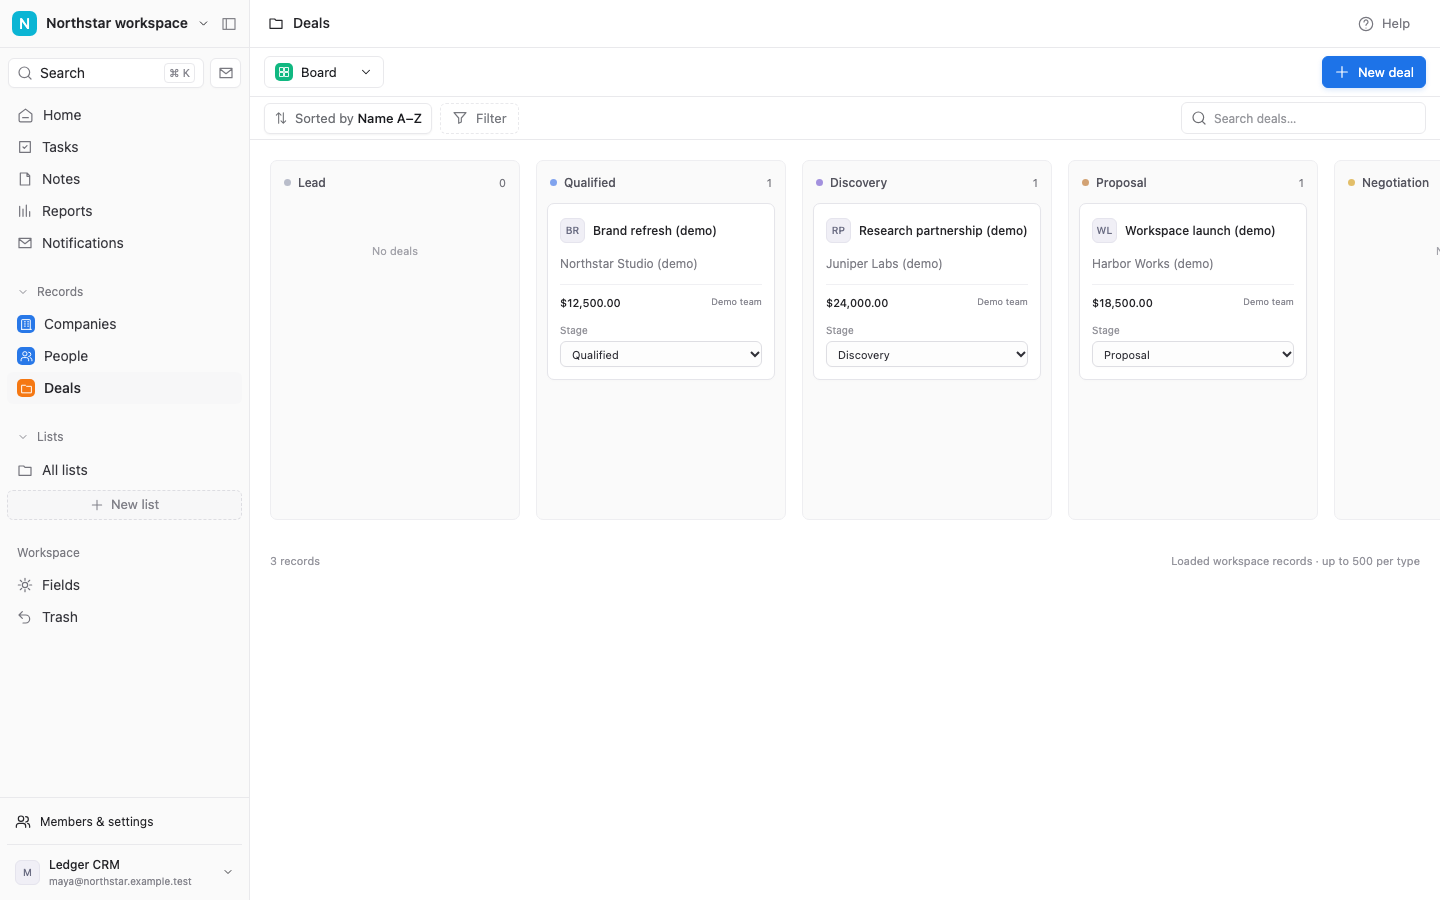
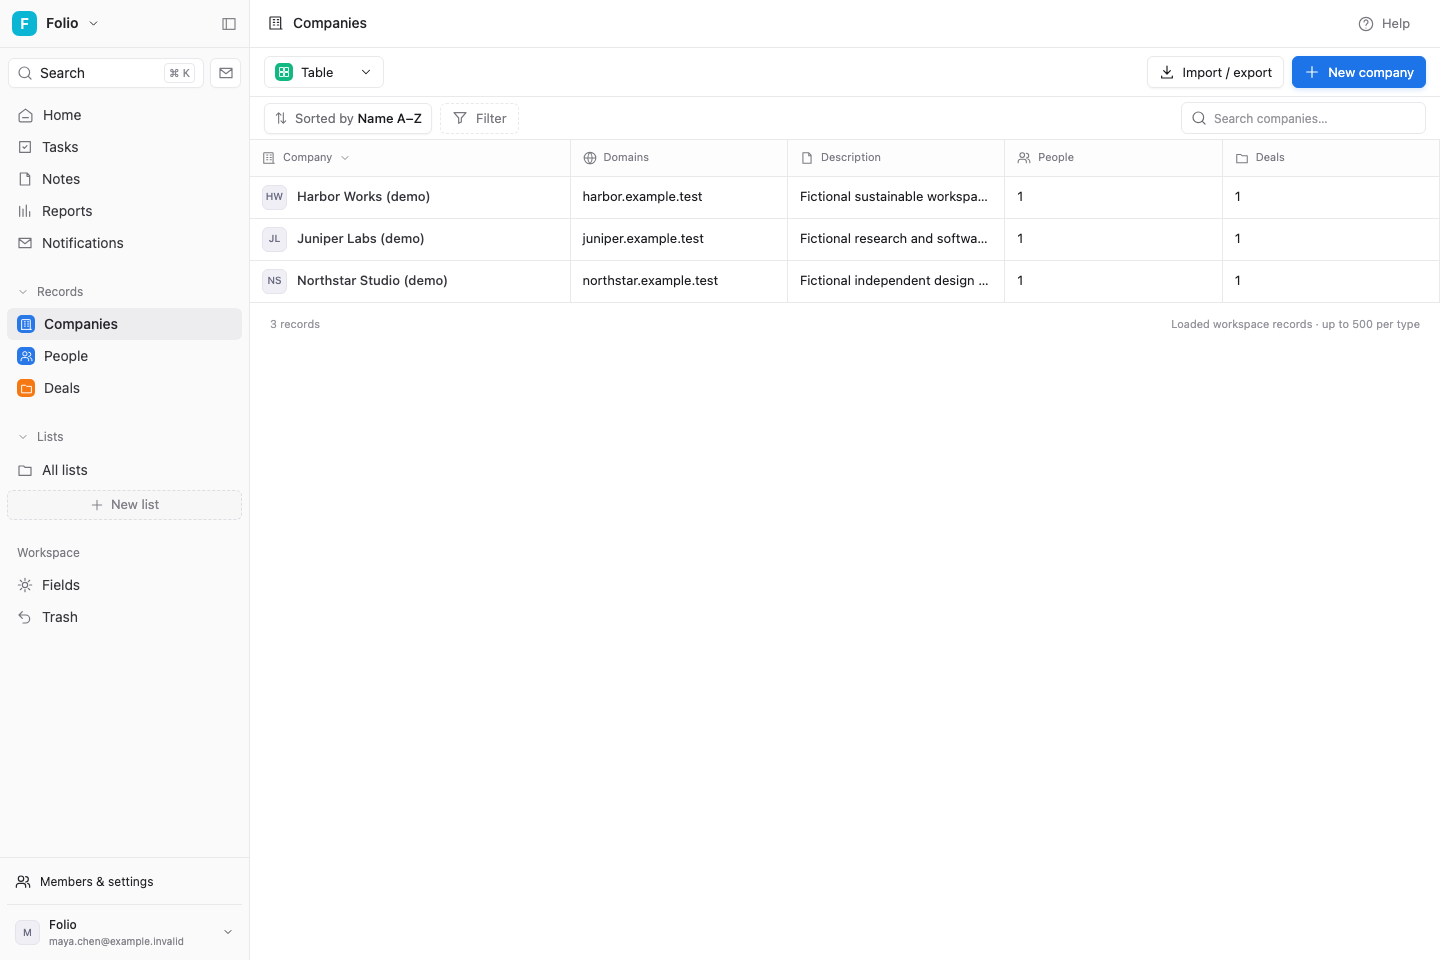
Use product branding in the app, repository and template library (#5)

diff --git a/app/workspace-ui.tsx b/app/workspace-ui.tsx
@@ -31,16 +31,16 @@ export function WorkspaceShell({section,workspace,email,role,unreadCount,navigat
  useEffect(()=>{const key=(event:KeyboardEvent)=>{if((event.metaKey||event.ctrlKey)&&event.key.toLowerCase()==='k'){event.preventDefault();setSearchOpen(open=>!open)}};window.addEventListener('keydown',key);return()=>window.removeEventListener('keydown',key)},[]);
  const results=useMemo(()=>{const q=query.trim().toLowerCase();return q?searchRecords.filter(r=>`${r.name} ${r.detail}`.toLowerCase().includes(q)):searchRecords},[searchRecords,query]);
  const go=(next:Section)=>{navigate(next);setMobileOpen(false)};
- const sidebar=<AttioSidebar header={<button className="workspace-switcher" onClick={()=>{setMobileOpen(false);onSettings()}} aria-label="Workspace switcher and settings"><span className="brandmark">{workspace[0]?.toUpperCase()||'L'}</span><strong>{workspace}</strong><Icon name="chevron" size={13}/><span className="sidebar-collapse"><Icon name="panel"/></span></button>} search={<div className="sidebar-search"><button onClick={()=>{setMobileOpen(false);setSearchOpen(true)}}><Icon name="search"/><span>Search</span><kbd>⌘ K</kbd></button><button aria-label={`Notifications, ${unreadCount} unread`} onClick={()=>go('Notifications')}><Icon name="mail"/>{unreadCount>0&&<i/>}</button></div>} footer={<div className="sidebarfoot"><button onClick={()=>{setMobileOpen(false);onSettings()}}><Icon name="people"/><span>Members & settings</span></button><button onClick={()=>{setMobileOpen(false);onSettings()}}><Avatar name={email}/><span><strong>Ledger CRM</strong><small>{email}</small></span><Icon name="chevron" size={12}/></button></div>}>
+ const sidebar=<AttioSidebar header={<button className="workspace-switcher" onClick={()=>{setMobileOpen(false);onSettings()}} aria-label="Workspace switcher and settings"><span className="brandmark">{workspace[0]?.toUpperCase()||'F'}</span><strong>{workspace}</strong><Icon name="chevron" size={13}/><span className="sidebar-collapse"><Icon name="panel"/></span></button>} search={<div className="sidebar-search"><button onClick={()=>{setMobileOpen(false);setSearchOpen(true)}}><Icon name="search"/><span>Search</span><kbd>⌘ K</kbd></button><button aria-label={`Notifications, ${unreadCount} unread`} onClick={()=>go('Notifications')}><Icon name="mail"/>{unreadCount>0&&<i/>}</button></div>} footer={<div className="sidebarfoot"><button onClick={()=>{setMobileOpen(false);onSettings()}}><Icon name="people"/><span>Members & settings</span></button><button onClick={()=>{setMobileOpen(false);onSettings()}}><Avatar name={email}/><span><strong>Folio</strong><small>{email}</small></span><Icon name="chevron" size={12}/></button></div>}>
  <nav aria-label="Workspace" className="workspace-navigation"><button className={`home-nav ${section==='Home'?'is-active':''}`} aria-current={section==='Home'?'page':undefined} onClick={()=>go('Home')}><HomeIcon/>Home</button>{(['Tasks','Notes','Reports'] as Section[]).map(n=><AttioNavItem key={n} icon={navIcons[n]} active={section===n} onClick={()=>go(n)}>{n}</AttioNavItem>)}<AttioNavItem icon="mail" active={section==='Notifications'} badge={unreadCount||undefined} onClick={()=>go('Notifications')}>Notifications</AttioNavItem>
  <div className="nav-group-label"><Icon name="chevron" size={12}/>Records</div>{(['Companies','People','Deals'] as Section[]).map(n=><AttioNavItem key={n} icon={navIcons[n]} iconTone={n==='Deals'?'orange':'blue'} active={section===n} onClick={()=>go(n)}>{n}</AttioNavItem>)}
  <div className="nav-group-label"><Icon name="chevron" size={12}/>Lists</div><AttioNavItem icon="folder" active={section==='Lists'} onClick={()=>go('Lists')}>All lists</AttioNavItem>{role!=='Viewer'&&<button className="new-list" onClick={()=>{setMobileOpen(false);onNewList()}}><Icon name="plus" size={14}/>New list</button>}
  <div className="nav-group-label">Workspace</div><AttioNavItem icon="settings" active={section==='Fields'} onClick={()=>go('Fields')}>Fields</AttioNavItem>{role!=='Viewer'&&<AttioNavItem icon="undo" active={section==='Trash'} onClick={()=>go('Trash')}>Trash</AttioNavItem>}
  </nav></AttioSidebar>;
- return <div className="at-pack at-light ledger-workspace"><div className="shell"><div className="desktop-sidebar">{sidebar}</div><main className="main"><AttioHeader actions={<AttioButton variant="ghost" leadingIcon="help" onClick={()=>setHelpOpen(true)}>Help</AttioButton>}><button className="mobile-nav-toggle" aria-label="Open navigation" onClick={()=>setMobileOpen(true)}><Icon name="panel"/></button>{section==='Home'?<HomeIcon/>:<Icon name={navIcons[section]}/>}<span>{section}</span></AttioHeader><div className={`content ${section==='Home'?'home-content':''}`}>{children}</div></main></div>
+ return <div className="at-pack at-light folio-workspace"><div className="shell"><div className="desktop-sidebar">{sidebar}</div><main className="main"><AttioHeader actions={<AttioButton variant="ghost" leadingIcon="help" onClick={()=>setHelpOpen(true)}>Help</AttioButton>}><button className="mobile-nav-toggle" aria-label="Open navigation" onClick={()=>setMobileOpen(true)}><Icon name="panel"/></button>{section==='Home'?<HomeIcon/>:<Icon name={navIcons[section]}/>}<span>{section}</span></AttioHeader><div className={`content ${section==='Home'?'home-content':''}`}>{children}</div></main></div>
  <Dialog open={mobileOpen} onClose={()=>setMobileOpen(false)} title="Navigation"><div className="mobile-navigation">{sidebar}</div></Dialog>
  <Dialog open={searchOpen} onClose={()=>setSearchOpen(false)} title="Search workspace"><AttioSearch aria-label="Search loaded records" placeholder="Search companies, people, deals…" value={query} onChange={e=>setQuery(e.target.value)}/><p className="muted">Searches currently loaded, authorized records in this workspace (up to 500 per record type).</p><div className="command-results">{results.slice(0,60).map(record=><button key={`${record.type}-${record.id}`} onClick={()=>{setSearchOpen(false);onOpen(record.type,record.id)}}><Avatar name={record.name}/><span><strong>{record.name}</strong><small>{record.type} · {record.detail||'Open record'}</small></span><Icon name="arrow" size={14}/></button>)}{!results.length&&<p className="empty">No matching records.</p>}{results.length>60&&<p className="muted">Showing 60 matches. Type more to narrow your search.</p>}</div></Dialog>
- <Dialog open={helpOpen} onClose={()=>setHelpOpen(false)} title="Ledger workspace help"><p>Manage relationships in Records, track processes in Lists, and follow up with Tasks.</p><p>Use <kbd>⌘ / Ctrl K</kbd> to search loaded records. Open a record to edit attributes, add notes and tasks, review history, merge, or move it to Trash.</p><p className="muted">{role} access · Workspace settings are available from the workspace name or the sidebar footer. AI, email, and calendar integrations are unavailable.</p></Dialog>
+ <Dialog open={helpOpen} onClose={()=>setHelpOpen(false)} title="Folio workspace help"><p>Manage relationships in Records, track processes in Lists, and follow up with Tasks.</p><p>Use <kbd>⌘ / Ctrl K</kbd> to search loaded records. Open a record to edit attributes, add notes and tasks, review history, merge, or move it to Trash.</p><p className="muted">{role} access · Workspace settings are available from the workspace name or the sidebar footer. AI, email, and calendar integrations are unavailable.</p></Dialog>
  </div>;
 }
 

diff --git a/app/style.css b/app/style.css
@@ -17,7 +17,7 @@ h1{font-size:22px;line-height:1.4;font-weight:600;letter-spacing:-.5px;margin:0}
 h2{font-size:15px;font-weight:600;margin:0 0 18px}
 h3{font-size:13px;font-weight:600;margin:24px 0 12px}
 p{line-height:1.6}
-.ledger-workspace{--at-layout-sidebar:250px;--at-sidebar:#fafafa;--at-border:#e9e9ec;--at-radius-control:6px;--at-radius-card:8px;--at-radius-modal:12px;font-family:inherit;font-size:14px;line-height:1.45;color:#252529;min-height:100dvh}
+.folio-workspace{--at-layout-sidebar:250px;--at-sidebar:#fafafa;--at-border:#e9e9ec;--at-radius-control:6px;--at-radius-card:8px;--at-radius-modal:12px;font-family:inherit;font-size:14px;line-height:1.45;color:#252529;min-height:100dvh}
 .shell{display:flex;min-height:100dvh;max-width:100vw}
 .desktop-sidebar{width:250px;flex:0 0 250px;position:sticky;top:0;height:100dvh}
 .at-sidebar{display:flex;flex-direction:column;height:100%;width:100%;background:#fafafa;border-right:1px solid var(--border)}
@@ -231,10 +231,10 @@ p{line-height:1.6}
 .settings-form button{justify-self:start}
 .member-list{margin:20px 0}
 .at-block-modal__body>.field{margin-bottom:18px}
-.ledger-workspace .at-block-modal{max-height:min(86dvh,850px);color:#41414b}
-.ledger-workspace .at-block-modal::backdrop{background:#20233355;backdrop-filter:blur(2px)}
-.ledger-workspace .at-block-modal__body p{margin:0 0 12px}
-.ledger-workspace .at-block-modal__body>.at-block-search{width:100%}
+.folio-workspace .at-block-modal{max-height:min(86dvh,850px);color:#41414b}
+.folio-workspace .at-block-modal::backdrop{background:#20233355;backdrop-filter:blur(2px)}
+.folio-workspace .at-block-modal__body p{margin:0 0 12px}
+.folio-workspace .at-block-modal__body>.at-block-search{width:100%}
 .command-results{max-height:48dvh;overflow:auto;margin-top:18px}
 .command-results>button{display:flex;align-items:center;gap:10px;width:100%;padding:10px 7px;text-align:left;background:none;border:0;border-radius:6px}
 .command-results>button:hover{background:#f5f5f8}
@@ -338,14 +338,14 @@ p{line-height:1.6}
 .heading{align-items:flex-start}
 .heading h1{font-size:21px}
 .sectionhead{flex-wrap:wrap}
-.ledger-workspace .at-block-modal{width:calc(100vw - 24px);max-height:90dvh;border-radius:10px}
+.folio-workspace .at-block-modal{width:calc(100vw - 24px);max-height:90dvh;border-radius:10px}
 .mobile-navigation .at-sidebar{border-right:0;height:min(74dvh,730px)}
 .mobile-navigation .at-sidebar-head{display:none}
 .mobile-navigation .sidebarfoot{margin-top:10px}
 .mobile-navigation .workspace-navigation{padding-left:0;padding-right:0}
 .mobile-navigation .nav-group-label{padding-top:15px}
 .mobile-navigation .sidebar-search{padding-left:0;padding-right:0}
-.ledger-workspace .at-block-modal:has(.mobile-navigation) .at-block-modal__body{padding-top:4px;padding-bottom:10px}
+.folio-workspace .at-block-modal:has(.mobile-navigation) .at-block-modal__body{padding-top:4px;padding-bottom:10px}
 .authbox{padding:26px}
 .table-footer span{display:block}
 .list-table{max-width:100%}
@@ -364,7 +364,7 @@ p{line-height:1.6}
 .task-summary>.muted{font-size:11px}
 .table-stage{display:flex;align-items:center;gap:6px}
 .table-stage .textlink{font-size:10px}
-.ledger-workspace .at-block-modal:has(.record-detail-body){width:min(1050px,calc(100vw - 40px));max-height:94dvh;margin:3dvh 20px 3dvh auto;min-height:80dvh;border-radius:10px}
+.folio-workspace .at-block-modal:has(.record-detail-body){width:min(1050px,calc(100vw - 40px));max-height:94dvh;margin:3dvh 20px 3dvh auto;min-height:80dvh;border-radius:10px}
 .record-detail-body .heading{margin:4px 0 30px}
 .record-detail-body .heading h1{font-size:24px}
 .record-detail-body .heading .record-avatar{width:36px;height:36px;flex-basis:36px;font-size:13px;border-radius:9px}
@@ -380,18 +380,18 @@ p{line-height:1.6}
 .record-detail-body .detailgrid>.panel:first-child>.at-block-button{margin-top:20px}
 .at-filter-toolbar__trailing{margin-left:auto}
 .at-collection-toolbar__view .at-block-select__trigger>svg:first-child{background:#f3f3f6;color:#85858f}
-.ledger-workspace .at-collection-toolbar .at-block-button>span{position:static;width:auto;height:auto;clip-path:none;overflow:visible}
-.ledger-workspace .at-collection-toolbar .at-block-button{width:auto}
-.ledger-workspace .at-collection-toolbar__view{width:120px}
-.ledger-workspace .at-filter-toolbar{flex-wrap:wrap;overflow:visible}
-.ledger-workspace .at-filter-toolbar__sort{flex:0 1 auto}
-.ledger-workspace .at-filter-toolbar__sort>.at-block-button{max-width:230px}
+.folio-workspace .at-collection-toolbar .at-block-button>span{position:static;width:auto;height:auto;clip-path:none;overflow:visible}
+.folio-workspace .at-collection-toolbar .at-block-button{width:auto}
+.folio-workspace .at-collection-toolbar__view{width:120px}
+.folio-workspace .at-filter-toolbar{flex-wrap:wrap;overflow:visible}
+.folio-workspace .at-filter-toolbar__sort{flex:0 1 auto}
+.folio-workspace .at-filter-toolbar__sort>.at-block-button{max-width:230px}
 
-@media(max-width:760px){.ledger-workspace .at-block-modal:has(.record-detail-body){width:calc(100vw - 16px);margin:8px auto;max-height:calc(100dvh - 16px);min-height:calc(100dvh - 16px)}
+@media(max-width:760px){.folio-workspace .at-block-modal:has(.record-detail-body){width:calc(100vw - 16px);margin:8px auto;max-height:calc(100dvh - 16px);min-height:calc(100dvh - 16px)}
 .task-summary{gap:8px}
 .task-summary>.muted{font-size:10px}
-.ledger-workspace .at-collection-toolbar{flex-wrap:wrap}
-.ledger-workspace .at-filter-toolbar__trailing{width:100%}
+.folio-workspace .at-collection-toolbar{flex-wrap:wrap}
+.folio-workspace .at-filter-toolbar__trailing{width:100%}
 }
 
 .list-layout .panel>.at-block-button{margin-right:8px}
@@ -411,10 +411,10 @@ p{line-height:1.6}
 .danger-button{min-height:32px;border:1px solid #c94f59;border-radius:6px;color:#fff;background:#c6535c;padding:6px 12px;font-size:12px}
 .danger-button:hover{background:#b1444d}
 
-.ledger-workspace .at-data-table .at-table{min-width:820px;table-layout:fixed;font-size:13px}
-.ledger-workspace .at-data-table .at-table th{height:36px;background:#fdfdfd;color:#7b7b85;font-size:11px;font-weight:400}
-.ledger-workspace .at-data-table .at-table td{height:42px;overflow:hidden;text-overflow:ellipsis;font-size:13px}
-.ledger-workspace .at-data-table .at-table tr:hover td{background:#fafafa}
+.folio-workspace .at-data-table .at-table{min-width:820px;table-layout:fixed;font-size:13px}
+.folio-workspace .at-data-table .at-table th{height:36px;background:#fdfdfd;color:#7b7b85;font-size:11px;font-weight:400}
+.folio-workspace .at-data-table .at-table td{height:42px;overflow:hidden;text-overflow:ellipsis;font-size:13px}
+.folio-workspace .at-data-table .at-table tr:hover td{background:#fafafa}
 .metrics>.metric-card{display:flex;flex-direction:column;justify-content:flex-start;gap:12px;padding:20px;min-height:135px}
 .metrics>.metric-card strong{font-size:25px;line-height:1.3}
-@media(max-width:640px){.ledger-workspace .at-data-table .at-table{min-width:0}.ledger-workspace .at-data-table .at-table tbody tr:not(.at-data-table__group)>td{height:auto;font-size:12px}}
+@media(max-width:640px){.folio-workspace .at-data-table .at-table{min-width:0}.folio-workspace .at-data-table .at-table tbody tr:not(.at-data-table__group)>td{height:auto;font-size:12px}}

diff --git a/app/page.tsx b/app/page.tsx
@@ -55,7 +55,7 @@ export default function Home(){
  const recordName=(type:string,id:number)=>type==='company'?company(id)?.name:type==='person'?person(id)?.name:data.deals.find(x=>x.id===id)?.name;
  const navigate=(next:Section)=>{setSection(next);setTarget(null);setNotice('');const url=new URL(window.location.href);if(next!=='Lists')url.searchParams.delete('list');url.searchParams.delete('recordType');url.searchParams.delete('recordId');window.history.replaceState(null,'',url)};
  if(account===undefined)return <main className="authscreen">Loading sign-in…</main>;
- if(!account)return <main className="authscreen"><form className="panel authbox" onSubmit={async e=>{e.preventDefault();if(await authAction(authMode,{email:authEmail,password:authPassword,...(authMode==='register'?{workspaceName}:{})}))setAuthPassword('')}}><div className="brand"><span className="brandmark">L</span> Ledger / CRM</div><h1>{authMode==='login'?'Sign in':'Create your workspace'}</h1>{error&&<p role="alert">{error}</p>}<label className="field">Email<input type="email" autoComplete="username" required value={authEmail} onChange={e=>setAuthEmail(e.target.value)}/></label><label className="field">Password<input type="password" autoComplete={authMode==='register'?'new-password':'current-password'} required minLength={authMode==='register'?12:1} value={authPassword} onChange={e=>setAuthPassword(e.target.value)}/></label>{authMode==='register'&&<label className="field">Workspace name<input required maxLength={120} value={workspaceName} onChange={e=>setWorkspaceName(e.target.value)}/></label>}<button className="primary">{authMode==='login'?'Sign in':'Create account'}</button><button type="button" className="textlink" onClick={()=>{setError('');setAuthMode(authMode==='login'?'register':'login')}}>{authMode==='login'?'Create an account':'Have an account? Sign in'}</button></form></main>;
+ if(!account)return <main className="authscreen"><form className="panel authbox" onSubmit={async e=>{e.preventDefault();if(await authAction(authMode,{email:authEmail,password:authPassword,...(authMode==='register'?{workspaceName}:{})}))setAuthPassword('')}}><div className="brand"><span className="brandmark">F</span> Folio</div><h1>{authMode==='login'?'Sign in':'Create your workspace'}</h1>{error&&<p role="alert">{error}</p>}<label className="field">Email<input type="email" autoComplete="username" required value={authEmail} onChange={e=>setAuthEmail(e.target.value)}/></label><label className="field">Password<input type="password" autoComplete={authMode==='register'?'new-password':'current-password'} required minLength={authMode==='register'?12:1} value={authPassword} onChange={e=>setAuthPassword(e.target.value)}/></label>{authMode==='register'&&<label className="field">Workspace name<input required maxLength={120} value={workspaceName} onChange={e=>setWorkspaceName(e.target.value)}/></label>}<button className="primary">{authMode==='login'?'Sign in':'Create account'}</button><button type="button" className="textlink" onClick={()=>{setError('');setAuthMode(authMode==='login'?'register':'login')}}>{authMode==='login'?'Create an account':'Have an account? Sign in'}</button></form></main>;
 
  return <WorkspaceShell section={section} workspace={activeWorkspace?.name||'Workspace'} email={account.user.email} role={activeWorkspace?.role||'Viewer'} unreadCount={loadedWorkspaceId===workspaceId?unreadCount:0} navigate={navigate} onSettings={()=>setSettingsOpen(true)} onNewList={()=>{navigate('Lists');setListCreateRequest(v=>v+1)}} searchRecords={loadedWorkspaceId===workspaceId?[...data.companies.map(r=>({id:r.id,type:'company' as const,name:r.name,detail:r.domain||r.description||''})),...data.people.map(r=>({id:r.id,type:'person' as const,name:r.name,detail:r.email||company(r.companyId)?.name||''})),...data.deals.map(r=>({id:r.id,type:'deal' as const,name:r.name,detail:company(r.companyId)?.name||''}))]:[]} onOpen={(type,id)=>{navigate(type==='company'?'Companies':type==='person'?'People':'Deals');open(type,id)}}>
  {activeWorkspace?.role==='Viewer'&&<div className="warning">Viewer access · You can read records but cannot change them.</div>}

diff --git a/app/api/csv/route.ts b/app/api/csv/route.ts
@@ -33,7 +33,7 @@ export async function GET(request: Request) { try {
   if (rows.length > CSV_MAX_ROWS) throw new CsvError(`Export exceeds ${CSV_MAX_ROWS} records.`, 409);
   const headers = type === 'companies' ? ['domain', 'name', 'description'] : ['email', 'name', 'companyDomain'];
   const csv = serializeCsv([headers, ...rows.map(row => headers.map(field => (row as Record<string, string | null>)[field]))]);
-  return new Response(csv, { headers: { 'Content-Type': 'text/csv; charset=utf-8', 'Content-Disposition': `attachment; filename="ledger-${type}.csv"`, 'Cache-Control': 'no-store', 'X-Content-Type-Options': 'nosniff' } });
+  return new Response(csv, { headers: { 'Content-Type': 'text/csv; charset=utf-8', 'Content-Disposition': `attachment; filename="folio-${type}.csv"`, 'Cache-Control': 'no-store', 'X-Content-Type-Options': 'nosniff' } });
 } catch (error) { return fail(error); } }
 
 export async function POST(request: Request) { try {

diff --git a/app/csv-section.tsx b/app/csv-section.tsx
@@ -34,7 +34,7 @@ export default function CsvSection({ type, workspaceId, canWrite, onImported }: 
       const response = await fetch(`/api/csv?type=${type}`, { headers: { 'x-workspace-id': workspaceId }, cache: 'no-store' });
       if (!response.ok) { const data = await response.json(); throw new Error(data.error || 'Export failed.'); }
       const blob = await response.blob(), url = URL.createObjectURL(blob), link = document.createElement('a');
-      link.href = url; link.download = `ledger-${type}.csv`; link.click(); URL.revokeObjectURL(url);
+      link.href = url; link.download = `folio-${type}.csv`; link.click(); URL.revokeObjectURL(url);
     } catch (cause) { setError(cause instanceof Error ? cause.message : 'Export failed.'); }
     finally { setBusy(false); }
   }

diff --git a/app/layout.tsx b/app/layout.tsx
@@ -1,7 +1,7 @@
 import "../src/neander-design-pack/attio/1.1.0/attio-tokens.css";
 import "./style.css";
 import type { ReactNode } from "react";
-export const metadata = { title: "Ledger CRM · Workspaces" };
+export const metadata = { title: "Folio · Workspaces" };
 export default function Layout({ children }: { children: ReactNode }) {
   return <html lang="en"><body>{children}</body></html>;
 }

diff --git a/README.md b/README.md
@@ -1,10 +1,12 @@
-# Ledger CRM
+# Folio
 
 A workspace CRM for companies, contacts, deals and the work around them.
 
-**Neander library:** Customer CRM · **Category:** Sales & CRM
+**Product inspiration:** Attio-inspired relationship management, with its own Folio branding.
 
-![Ledger CRM with fictional sample data](.neander/thumbnail.png)
+**Neander library:** Folio · **Category:** Sales & CRM
+
+![Folio with fictional sample data](.neander/thumbnail.png)
 
 ## What you can build
 
@@ -16,7 +18,7 @@ A workspace CRM for companies, contacts, deals and the work around them.
 
 ## How this fits into Neander
 
-This is the open-source app behind Neander’s **Customer CRM** starter. You can
+This is the open-source app behind Neander’s **Folio** starter. You can
 run and modify it on its own without a Neander account, or use it as a starting
 point in Neander.
 
@@ -42,8 +44,8 @@ PostgreSQL service. Python 3.12 with PyYAML is needed for this repository’s Py
 ### 1. Install the app
 
 ```sh
-git clone https://github.com/neanderhq/attio_clone.git
-cd attio_clone
+git clone https://github.com/neanderhq/folio.git
+cd folio
 pnpm install --frozen-lockfile
 cp .env.example .env.local
 ```
@@ -51,7 +53,7 @@ cp .env.example .env.local
 ### 2. Start local PostgreSQL
 
 ```sh
-PGPORT=55433 docker compose -p ledger-crm-dev -f compose.dev.yaml up -d --wait
+PGPORT=55433 docker compose -p folio-dev -f compose.dev.yaml up -d --wait
 ```
 
 The example database URL uses port `55433`. The Compose project name keeps

diff --git a/docs/plans/pr-name.md b/docs/plans/pr-name.md
@@ -6,7 +6,7 @@
 
 ## Suggested description
 
-Ledger CRM's current foundation includes local sign-in with workspace membership and roles, linked Companies/People/Deals, notes and assigned tasks, private/shared lists with saved views, synchronous Companies/People CSV transfer, and current pipeline reports. It also has reviewed same-type merges and 30-day restore eligibility. See [README.md](../../README.md) for the supported scope and limits.
+Folio's current foundation includes local sign-in with workspace membership and roles, linked Companies/People/Deals, notes and assigned tasks, private/shared lists with saved views, synchronous Companies/People CSV transfer, and current pipeline reports. It also has reviewed same-type merges and 30-day restore eligibility. See [README.md](../../README.md) for the supported scope and limits.
 
 **This branch's change relative to local `main` is narrower:** it safeguards Person merges against silently moving the survivor's existing deals, rejects a merge when linked notes or tasks changed since its preview, protects Person writes during concurrent Company deletion, and avoids showing a previous workspace's records during a switch. The focused lifecycle check is in [scripts/check-record-lifecycle.ts](../../scripts/check-record-lifecycle.ts). The foundation above is context, not a claim that this branch introduced it.
 

diff --git a/docs/qa/business-check-catalogue.md b/docs/qa/business-check-catalogue.md
@@ -1,4 +1,4 @@
-# Ledger CRM business-check catalogue
+# Folio business-check catalogue
 
 **Purpose:** agree what supported business logic should do **before execution**. This is a bounded catalogue, not a claim of complete CRM coverage, a screenshot-parity assessment, or an execution report.
 
